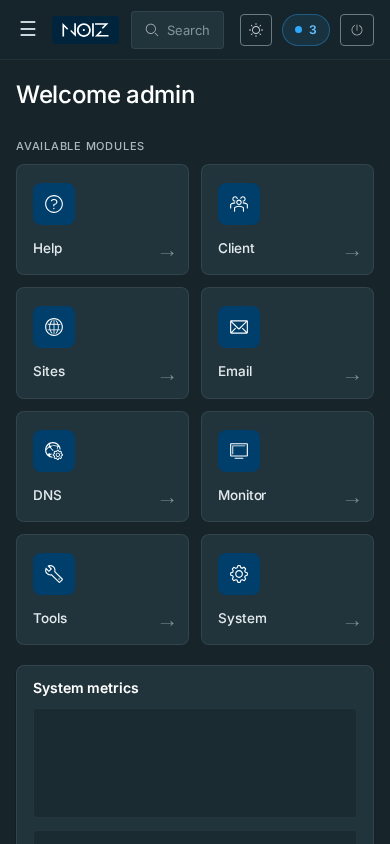
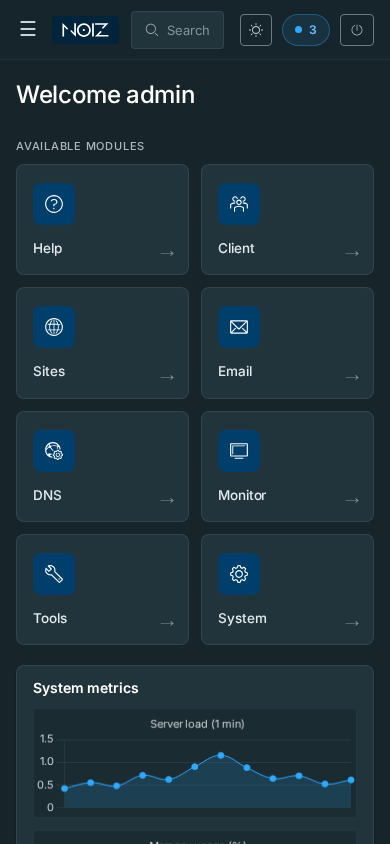
Mockup: real charts in the dashboard hero; move QA strip off it
The dark-dashboard hero (used in the README and the release announcement)
had two problems: the metrics <canvas> rendered empty because the harness
strips all <script>, and a "synthetic component strip" of error/warning
alerts sat right on the dashboard.

- dashboard.html is now the real dashboard only (modules, metrics, mailbox
  quota, account limits).
- The component gallery moves to components.html on its own dark-components
  page ("Component reference"), preserving regression coverage of every
  alert/tab/form/badge/pagination/panel; Design select corrected to noiz-dark.
- build.py re-injects a controlled bootstrap on the dashboard page only:
  real Chart.js + the SHIPPED nz-theme.js + stock createChart verbatim
  (animation off), so the screenshot proves the actual chart plugin. Charts
  now render in both dark and light heroes.

Mockup/screenshots only — no theme asset changed, nothing to redeploy.

diff --git a/mockup/fragments/dashboard.html b/mockup/fragments/dashboard.html
@@ -82,8 +82,8 @@
 
 <div>
     <div><h3>System metrics</h3></div>
-    <div style="padding-bottom:10px;"><canvas height="98" id="loadchart" style="background-color: white; display: block; box-sizing: border-box; height: 98px; width: 980px;" width="980"></canvas></div>
-    <div style="padding-bottom:10px;"><canvas height="98" id="memchart" style="background-color: white; display: block; box-sizing: border-box; height: 98px; width: 980px;" width="980"></canvas></div>
+    <div style="padding-bottom:10px;"><canvas height="30" id="loadchart" style="background-color: white;"></canvas></div>
+    <div style="padding-bottom:10px;"><canvas height="30" id="memchart" style="background-color: white;"></canvas></div>
 </div>
 
     <div class="table-wrapper">
@@ -151,57 +151,3 @@
         </tbody>
     </table>
 </div>
-
-<!-- SYNTHETIC: not on the dashboard, but these are the components a theme must get
-     right. Markup copied from ISPConfig's own module templates. -->
-<h3>Synthetic component strip (not part of the real dashboard)</h3>
-<div id="errorMsg" class="alert alert-danger" role="alert"><strong>Error:</strong> Field "Domain" is empty.</div>
-<div id="okMsg" class="alert alert-success" role="alert">Settings saved.</div>
-<div class="alert alert-info" role="alert">Informational notice.</div>
-<div class="alert alert-warning" role="alert">Warning notice.</div>
-
-<ul class="nav nav-tabs">
-  <li role="presentation" class="active"><a href="#">Domain</a></li>
-  <li role="presentation"><a href="#">Redirect</a></li>
-  <li role="presentation"><a href="#">SSL</a></li>
-  <li role="presentation"><a href="#">Statistics</a></li>
-</ul>
-
-<div class="form-group">
-  <label class="col-sm-3 control-label" for="demo_input">Domain</label>
-  <div class="col-sm-9"><input type="text" id="demo_input" class="form-control" value="example.co.za"></div>
-</div>
-<div class="form-group has-error">
-  <label class="col-sm-3 control-label" for="demo_err">IPv4 Address</label>
-  <div class="col-sm-9"><input type="text" id="demo_err" class="form-control" value="not-an-ip"></div>
-</div>
-<div class="form-group">
-  <label class="col-sm-3 control-label" for="demo_select">Design</label>
-  <div class="col-sm-9"><select name="app_theme" id="demo_select" class="form-control"><option>default</option><option selected>noiz</option></select></div>
-</div>
-<div class="form-group">
-  <div class="col-sm-9 col-sm-offset-3">
-    <label><input type="checkbox" checked> Stay logged in</label>
-  </div>
-</div>
-
-<div class="clear">
-  <button class="btn btn-default formbutton-default">Save</button>
-  <button class="btn btn-default formbutton-narrow">Cancel</button>
-  <button class="btn btn-primary">Primary</button>
-  <button class="btn btn-danger">Delete</button>
-  <span class="label label-success">active</span>
-  <span class="label label-warning">pending</span>
-  <span class="label label-danger">failed</span>
-</div>
-
-<ul class="pagination">
-  <li class="active"><a href="#">1</a></li><li><a href="#">2</a></li><li><a href="#">3</a></li>
-</ul>
-
-<div class="panel panel-default">
-  <div class="panel-heading">Panel heading</div>
-  <div class="panel-body">Panel body text.</div>
-</div>
-<!-- END SYNTHETIC -->
-

diff --git a/mockup/fragments/components.html b/mockup/fragments/components.html
@@ -1,0 +1,56 @@
+<!-- QA-only page: NOT the real dashboard. One of every component a theme
+     must get right, markup copied from ISPConfig's own module templates, so a
+     single screenshot exercises alerts, tabs, forms, buttons, badges,
+     pagination and panels. Never referenced by the README or any release. -->
+<div class="page-header">
+  <h1>Component reference</h1>
+</div>
+
+<div id="errorMsg" class="alert alert-danger" role="alert"><strong>Error:</strong> Field "Domain" is empty.</div>
+<div id="okMsg" class="alert alert-success" role="alert">Settings saved.</div>
+<div class="alert alert-info" role="alert">Informational notice.</div>
+<div class="alert alert-warning" role="alert">Warning notice.</div>
+
+<ul class="nav nav-tabs">
+  <li role="presentation" class="active"><a href="#">Domain</a></li>
+  <li role="presentation"><a href="#">Redirect</a></li>
+  <li role="presentation"><a href="#">SSL</a></li>
+  <li role="presentation"><a href="#">Statistics</a></li>
+</ul>
+
+<div class="form-group">
+  <label class="col-sm-3 control-label" for="demo_input">Domain</label>
+  <div class="col-sm-9"><input type="text" id="demo_input" class="form-control" value="example.co.za"></div>
+</div>
+<div class="form-group has-error">
+  <label class="col-sm-3 control-label" for="demo_err">IPv4 Address</label>
+  <div class="col-sm-9"><input type="text" id="demo_err" class="form-control" value="not-an-ip"></div>
+</div>
+<div class="form-group">
+  <label class="col-sm-3 control-label" for="demo_select">Design</label>
+  <div class="col-sm-9"><select name="app_theme" id="demo_select" class="form-control"><option>default</option><option selected>noiz-dark</option></select></div>
+</div>
+<div class="form-group">
+  <div class="col-sm-9 col-sm-offset-3">
+    <label><input type="checkbox" checked> Stay logged in</label>
+  </div>
+</div>
+
+<div class="clear">
+  <button class="btn btn-default formbutton-default">Save</button>
+  <button class="btn btn-default formbutton-narrow">Cancel</button>
+  <button class="btn btn-primary">Primary</button>
+  <button class="btn btn-danger">Delete</button>
+  <span class="label label-success">active</span>
+  <span class="label label-warning">pending</span>
+  <span class="label label-danger">failed</span>
+</div>
+
+<ul class="pagination">
+  <li class="active"><a href="#">1</a></li><li><a href="#">2</a></li><li><a href="#">3</a></li>
+</ul>
+
+<div class="panel panel-default">
+  <div class="panel-heading">Panel heading</div>
+  <div class="panel-body">Panel body text.</div>
+</div>

diff --git a/mockup/build.py b/mockup/build.py
@@ -114,10 +114,55 @@ BASE_VARS = {
 }
 
 DARK_PAGES = {  # name -> (active module, sidebar fragment, pageContent fragment)
-    "dark-dashboard": ("dashboard", "news.html", "dashboard.html"),
-    "dark-sites":     ("sites", "sidenav-sites.html", "sites-list.html"),
-    "dark-form":      ("mail", "sidenav-mail.html", "mail-user-form.html"),
+    "dark-dashboard":  ("dashboard", "news.html", "dashboard.html"),
+    "dark-sites":      ("sites", "sidenav-sites.html", "sites-list.html"),
+    "dark-form":       ("mail", "sidenav-mail.html", "mail-user-form.html"),
+    "dark-components": ("dashboard", "news.html", "components.html"),
 }
+
+# The metrics dashlet renders through <canvas>, so the harness (which strips
+# all <script> to avoid 404s from missing ISPConfig core JS) can't draw it.
+# For the dashboard page we re-inject a controlled bootstrap: real Chart.js,
+# the SHIPPED nz-theme.js (so the screenshot proves the actual chart plugin),
+# and the stock createChart verbatim — animation off for a deterministic shot.
+CHART_BOOTSTRAP = """
+<script src='js/chartjs/chart.umd.js'></script>
+<script src='themes/noiz-dark/assets/javascripts/nz-theme.js'></script>
+<script>
+Chart.defaults.animation = false;
+document.addEventListener('DOMContentLoaded', function () {
+  var L = ['','','','','','','','','','','',''];
+  createChart('loadchart', 'Server load (1 min)', L,
+              [0.42,0.55,0.48,0.71,0.62,0.90,1.15,0.88,0.64,0.70,0.52,0.61]);
+  createChart('memchart', 'Memory usage (%)', L,
+              [38,41,40,45,52,58,71,64,60,55,47,49]);
+});
+function createChart(chartname, label, labels, data) {
+    var ctx = document.getElementById(chartname).getContext('2d');
+    new Chart(ctx, {
+        type: 'line',
+        data: { labels: labels, datasets: [{
+            label: label, data: data, borderWidth: 1, tension: 0.4,
+            cubicInterpolationMode: 'default',
+            borderColor: 'rgb(75, 192, 192)',
+            backgroundColor: 'rgba(75, 192, 192, 0.2)', fill: true }] },
+        options: {
+            scales: { x: { display: false }, y: { beginAtZero: true } },
+            plugins: { legend: { labels: { generateLabels: function(chart) {
+                return chart.data.datasets.map(function(dataset, i) {
+                    return { text: dataset.label, fillStyle: 'white',
+                        hidden: !chart.isDatasetVisible(i), strokeStyle: 'white',
+                        pointStyle: 'white', lineWidth: dataset.borderWidth,
+                        datasetIndex: i };
+                });
+            } } } }
+        }
+    });
+}
+</script>
+"""
+
+PAGE_SCRIPTS = {"dark-dashboard": CHART_BOOTSTRAP}
 
 
 def nav_top(active: str):
@@ -158,7 +203,13 @@ def build_dark_page(name: str, active: str, sidebar_frag: str, content_frag: str
     # the datalog chip is JS-toggled at runtime; show it in the static shot
     page = page.replace('class="notification" data-toggle="modal" data-target="#datalogModal" style="display: none;"',
                         'class="notification" data-toggle="modal" data-target="#datalogModal"', 1)
-    return fix_paths(strip_scripts(page))
+    # strip the shell's scripts (missing core JS), then re-inject only the
+    # controlled per-page bootstrap (e.g. the chart renderer for the dashboard)
+    page = strip_scripts(page)
+    extra = PAGE_SCRIPTS.get(name, "")
+    if extra:
+        page = page.replace("</body>", extra + "\n</body>", 1)
+    return fix_paths(page)
 
 
 def build_dark_login() -> str:
@@ -188,6 +239,8 @@ def build() -> None:
     (WEBROOT / "themes").mkdir(parents=True)
     (WEBROOT / "themes/default").symlink_to(STOCK / "themes/default")
     (WEBROOT / "themes/noiz-dark").symlink_to(DARK)
+    # vendor JS (Chart.js) for the pages that re-inject a controlled bootstrap
+    (WEBROOT / "js").symlink_to(STOCK / "js")
 
     # stock baseline for comparison
     body = strip_scripts((HERE / "body.html").read_text(encoding="utf-8"))
@@ -224,6 +277,7 @@ SHOT_MATRIX = [
     ("dark-dashboard", ("desktop", "mobile")),
     ("dark-sites", ("desktop",)),
     ("dark-form", ("desktop",)),
+    ("dark-components", ("desktop",)),  # QA gallery, not a marketing shot
     ("dark-login", ("desktop", "mobile")),
     ("light-dashboard", ("desktop",)),
     ("light-login", ("desktop",)),